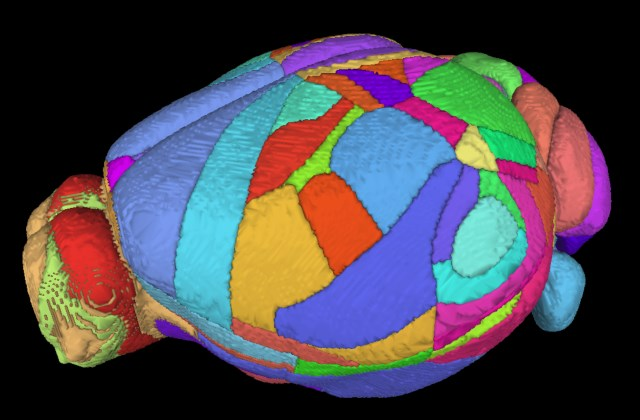
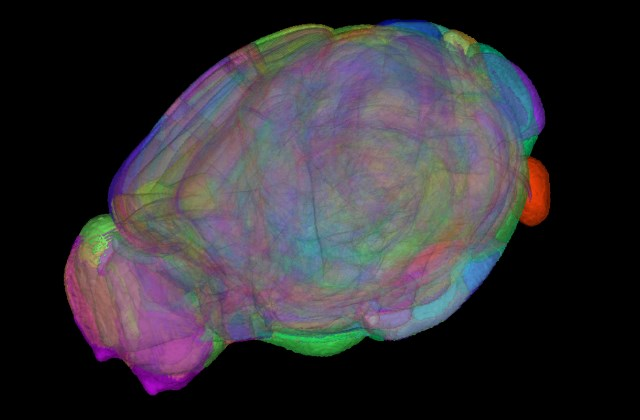
Viz ontology links (#133)
* update viz link for zbrain to add ontology overlay

* add ara overlay for viz link

* update pictures for meshes

* remove links to old json server

diff --git a/content/guides/neuroglancer-pt-annotations.md b/content/guides/neuroglancer-pt-annotations.md
@@ -6,7 +6,7 @@ $order: 3
 
 [TOC]
 
-This guide demonstrates how to add point annotations manually to a neuroglancer view.  To generate a starting neuroglancer view, we recommend using <a href="https://ndwebtools.neurodata.io" target="_blank">ndwebtools</a>.  For this demo, we have made <a href="https://viz.neurodata.io/?json_url=https://api.myjson.com/bins/j51ys" target="_blank">this</a> neuroglancer view available to use.
+This guide demonstrates how to add point annotations manually to a neuroglancer view.  To generate a starting neuroglancer view, we recommend using <a href="https://ndwebtools.neurodata.io" target="_blank">ndwebtools</a>.  For this demo, we have made <a href="https://viz.neurodata.io/?json_url=https://json.neurodata.io/v1?NGStateID=c-D79XYYWJngLw" target="_blank">this</a> neuroglancer view available to use.
 
 ### Open JSON editor
 
@@ -54,4 +54,4 @@ Now that you have selected the point annotations, you can ctrl + click on any lo
 
 ### Share
 
-To share these data, click the `⇧` icon in the top right navigation aria.  This will change the URL field in the browser to a short one that can be easily copied and shared.  The URL should be similar to this: <a href="https://viz.neurodata.io/?json_url=https://api.myjson.com/bins/187ej8" target="_blank">https://viz.neurodata.io/?json_url=https://api.myjson.com/bins/187ej8</a>
+To share these data, click the `⇧` icon in the top right navigation aria.  This will change the URL field in the browser to a short one that can be easily copied and shared.  The URL should be similar to this: <a href="https://viz.neurodata.io/?json_url=https://json.neurodata.io/v1?NGStateID=c-D79XYYWJngLw" target="_blank">https://viz.neurodata.io/?json_url=https://json.neurodata.io/v1?NGStateID=c-D79XYYWJngLw</a>

diff --git a/content/guides/visualization.md b/content/guides/visualization.md
@@ -22,10 +22,10 @@ To load data into neuroglancer from our BOSS deployment, we recommend using [ndw
 The following URLs link to highlighted visualizations
 
 1. [Lee16](https://ndwebtools.neurodata.io/ndviz_url/lee/lee16/image/): Over 20 trillion voxel serial EM dataset
-1. [zbrain](https://viz.neurodata.io/?json_url=https://api.myjson.com/bins/13225y) Zebrafish Atlas (by Owen Randlett), meshed and overlaid with light data channels
-1. [synaptomes](https://viz.neurodata.io/?json_url=https://json.neurodata.io/v1?NGStateID=XgjWA3ayoXzaSg): Manually annotated synapses on Electron Microsopy coregistered with array tomography
+1. [zbrain](https://zbrain.viz.neurodata.io/?json_url=https://json.neurodata.io/v1?NGStateID=a5m8l6WM5OECfw) Zebrafish Atlas (by Owen Randlett), meshed and overlaid with light data channels
+1. [synaptomes](https://viz.neurodata.io/?json_url=https://json.neurodata.io/v1?NGStateID=Pd7u-ZWGhecamg): Manually annotated synapses on Electron Microsopy coregistered with array tomography
 <!-- 1. [synaptomes](https://viz.neurodata.io/?json_url=https://api.myjson.com/bins/17xtbq): Manually annotated synapses meshed and overlaid with EM and array tomography -->
-1. [ARA](https://viz.neurodata.io/?json_url=https://api.myjson.com/bins/fwaqe) Allen Reference Atlas meshed
+1. [ARA](https://ara.viz.neurodata.io/?json_url=https://json.neurodata.io/v1?NGStateID=5J65_CN_YS1aTQ) Allen Reference Atlas meshed
 <!-- 1. [Cell detections](https://viz.neurodata.io/?json_url=https://api.myjson.com/bins/89y6u) Point annotations representing cell detections of different regions of light data overlaid with the Allen Reference Atlas.   -->
 
 ### Annotation features
